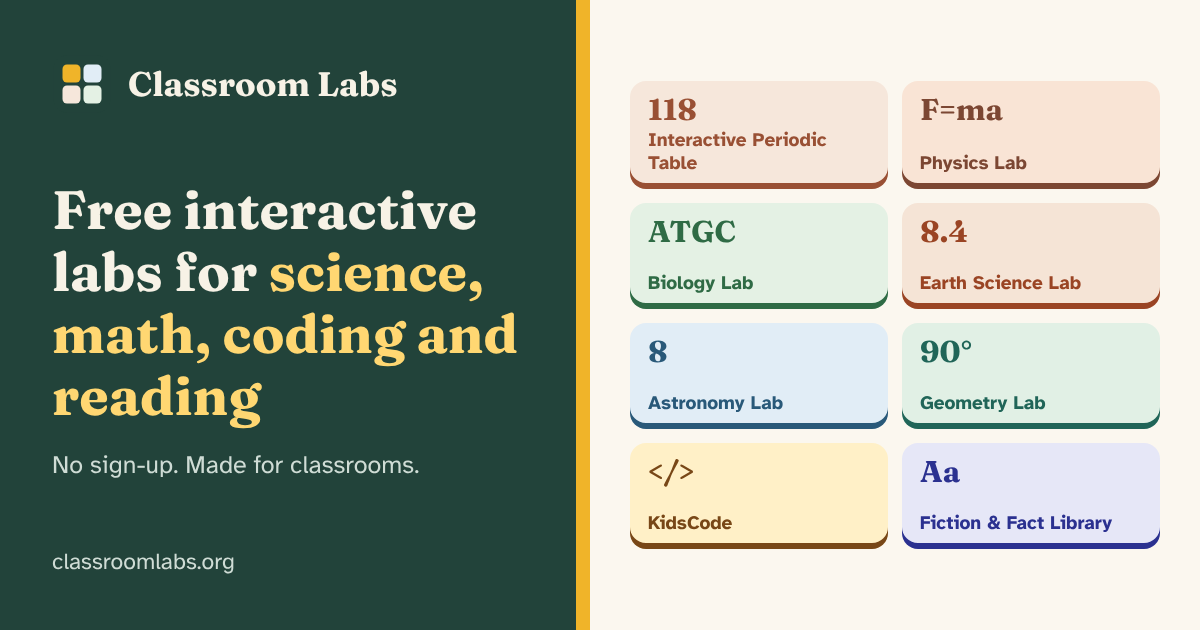
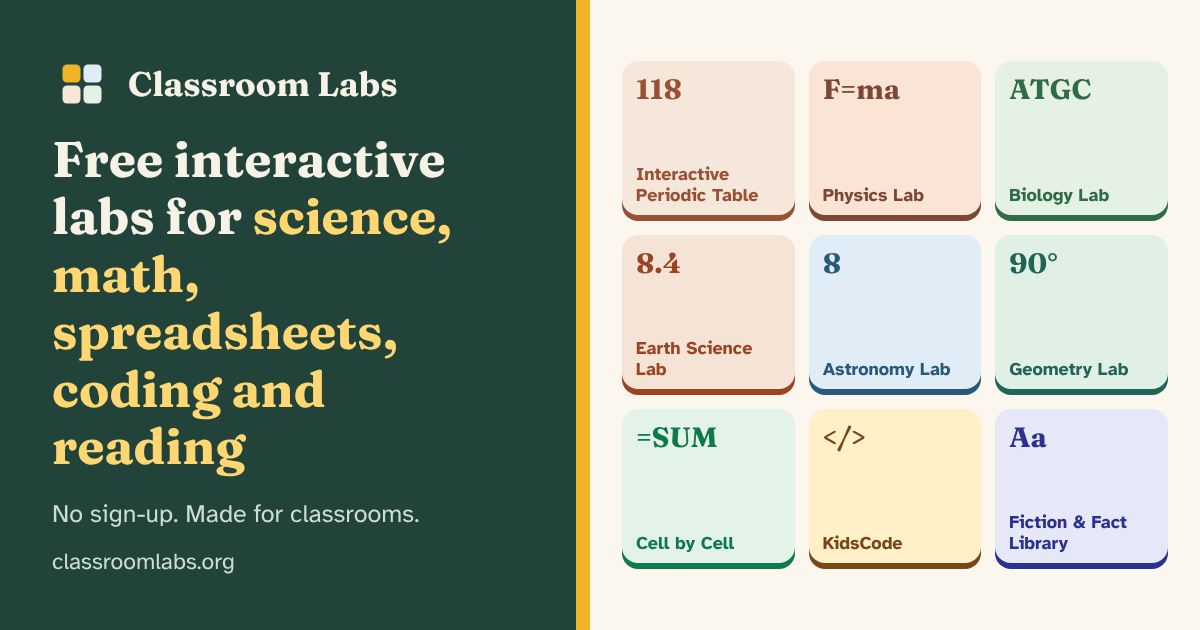
Add Cell by Cell to the hub as the ninth lab
A "Computer skills" group with Cell by Cell's card (interactive Excel
lessons in a live spreadsheet, the skills test, function guides, the
daily puzzle and its teachers page), using its own color and mark and
its canonical URLs without trailing slashes. The tiles, JSON-LD sameAs
and ItemList, llms.txt, the teachers page list, the share image and
every count ("eight labs" to nine) follow.

Claude-Session: https://claude.ai/code/session_01YTtdRHjFtHvs4H8o434kaH

diff --git a/README.md b/README.md
@@ -1,8 +1,8 @@
 # Classroom Labs
 
 The home of the Classroom Labs series at **https://classroomlabs.org**: a small static site that introduces the
-eight free labs (Interactive Periodic Table, Physics Lab, Biology Lab, Earth Science Lab, Astronomy Lab, Geometry
-Lab, KidsCode and Fiction & Fact Library) and the coming teacher plan, plus the **teacher-plan waitlist API** that
+nine free labs (Interactive Periodic Table, Physics Lab, Biology Lab, Earth Science Lab, Astronomy Lab, Geometry
+Lab, Cell by Cell, KidsCode and Fiction & Fact Library) and the coming teacher plan, plus the **teacher-plan waitlist API** that
 every lab's form posts to.
 
 One Cloudflare Worker (`classroom-labs`) serves both:
@@ -27,7 +27,8 @@ One Cloudflare Worker (`classroom-labs`) serves both:
 The lab cards come from `src/lib/labs.mjs`. Names, colors, marks and home URLs come from `src/lib/learning-apps.mjs`
 (a copy of the list every lab carries; keep it in sync). What each card says (what students do, grade band, main
 tools, teachers page) was checked against each lab's own pages; check the lab again before changing it. Every lab
-link must be the lab's canonical URL: Interactive Periodic Table has no trailing slash, the other labs do.
+link must be the lab's canonical URL: Interactive Periodic Table and Cell by Cell have no trailing slash, the other
+labs do.
 `npm run check` fails on any other link to a lab. KidsCode's pages could not be checked when the hub was built, so
 its card uses only its home page and the description from `learning-apps.mjs`, with no grade band or tools.
 
@@ -79,7 +80,7 @@ GA4, only when `PUBLIC_GA_ID` is set, behind the same Consent Mode defaults and 
 | Event | Parameters | When |
 | --- | --- | --- |
 | `waitlist_signup` | `site`, `role`, `source` | the waitlist form was accepted (JavaScript path) |
-| `lab_click` | `lab` (`chemistry`, `physics`, `biology`, `earth`, `astronomy`, `geometry`, `kids`, `reading`) | any link to a lab |
+| `lab_click` | `lab` (`chemistry`, `physics`, `biology`, `earth`, `astronomy`, `geometry`, `spreadsheets`, `kids`, `reading`) | any link to a lab |
 
 ## The waitlist API
 
@@ -87,7 +88,7 @@ The contract shared with the labs is [`docs/waitlist-contract.md`](docs/waitlist
 one side only.
 
 - `POST /api/waitlist`: JSON (fetch) or a form post (`application/x-www-form-urlencoded`, also multipart).
-  Order of checks: origin (CORS allowlist: `https://<site>` and `https://www.<site>` for the seven sites, plus the
+  Order of checks: origin (CORS allowlist: `https://<site>` and `https://www.<site>` for the eight sites, plus the
   Worker's own origin) → body → honeypot (`website` filled: answer ok, store nothing) → validation → rate limit →
   Turnstile (`siteverify` with `TURNSTILE_SECRET` and the client IP) → upsert on `(email, site)`. JSON gets
   `200 {"ok":true}` or `4xx {"ok":false,"error":…}`; a form post gets a `303` to `return` (only an https URL on an
@@ -119,7 +120,7 @@ Site tests (`tests/site/`) check the lab data and render the form with the Astro
    `npm run db:migrate:remote` only applies later migrations).
 3. **Turnstile**: Dashboard → Turnstile → Add widget. Hostnames: `classroomlabs.org`, `earthsciencelab.org`,
    `interactiveperiodictable.net`, `thebiologylab.org`, `thephysicslab.org`, `theastronomylab.com`,
-   `geometrylab.net`. Mode: Managed. The **site key** goes into `PUBLIC_TURNSTILE_SITE_KEY` here and in each lab's
+   `geometrylab.net`, `cellbycell.app`. Mode: Managed. The **site key** goes into `PUBLIC_TURNSTILE_SITE_KEY` here and in each lab's
    build settings; the **secret key** goes into step 4.
 4. **Secrets** (never in the repo or in chat), from this folder:
    `npx wrangler secret put TURNSTILE_SECRET` (the Turnstile secret key) and
@@ -139,7 +140,8 @@ Site tests (`tests/site/`) check the lab data and render the form with the Astro
    copy the measurement ID (`G-…`) into `PUBLIC_GA_ID`, redeploy. In GA, register `lab` and `role`, `site`,
    `source` as event-scoped custom dimensions to see them in reports.
 9. Turn on the labs' forms: set `PUBLIC_WAITLIST_ENDPOINT=https://classroomlabs.org/api/waitlist` and
-   `PUBLIC_TURNSTILE_SITE_KEY` in each lab's build settings.
+   `PUBLIC_TURNSTILE_SITE_KEY` in each lab's build settings. Cell by Cell (a Vite app) names them
+   `VITE_WAITLIST_ENDPOINT` and `VITE_TURNSTILE_SITE_KEY`.
 10. Submit `https://classroomlabs.org/sitemap-index.xml` in Google Search Console and Bing Webmaster Tools.
 
 ## Privacy
